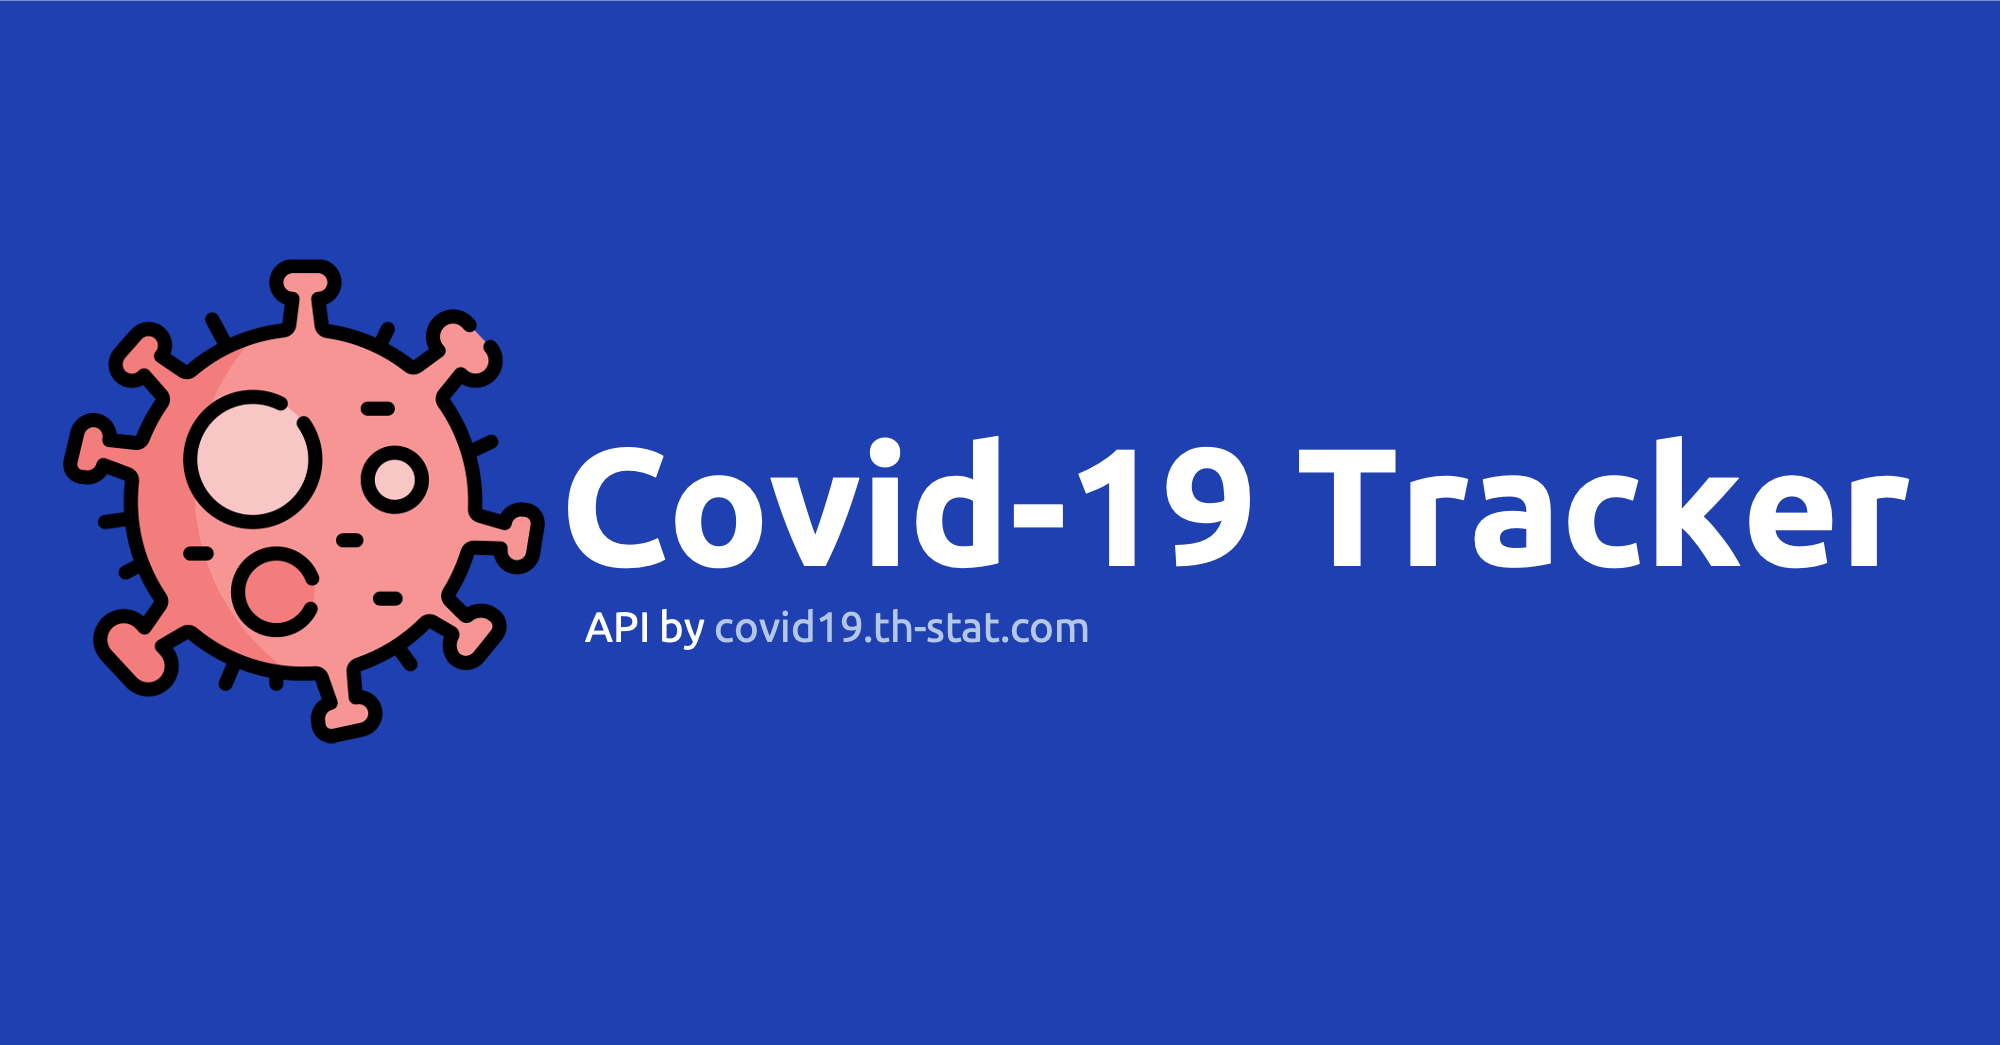
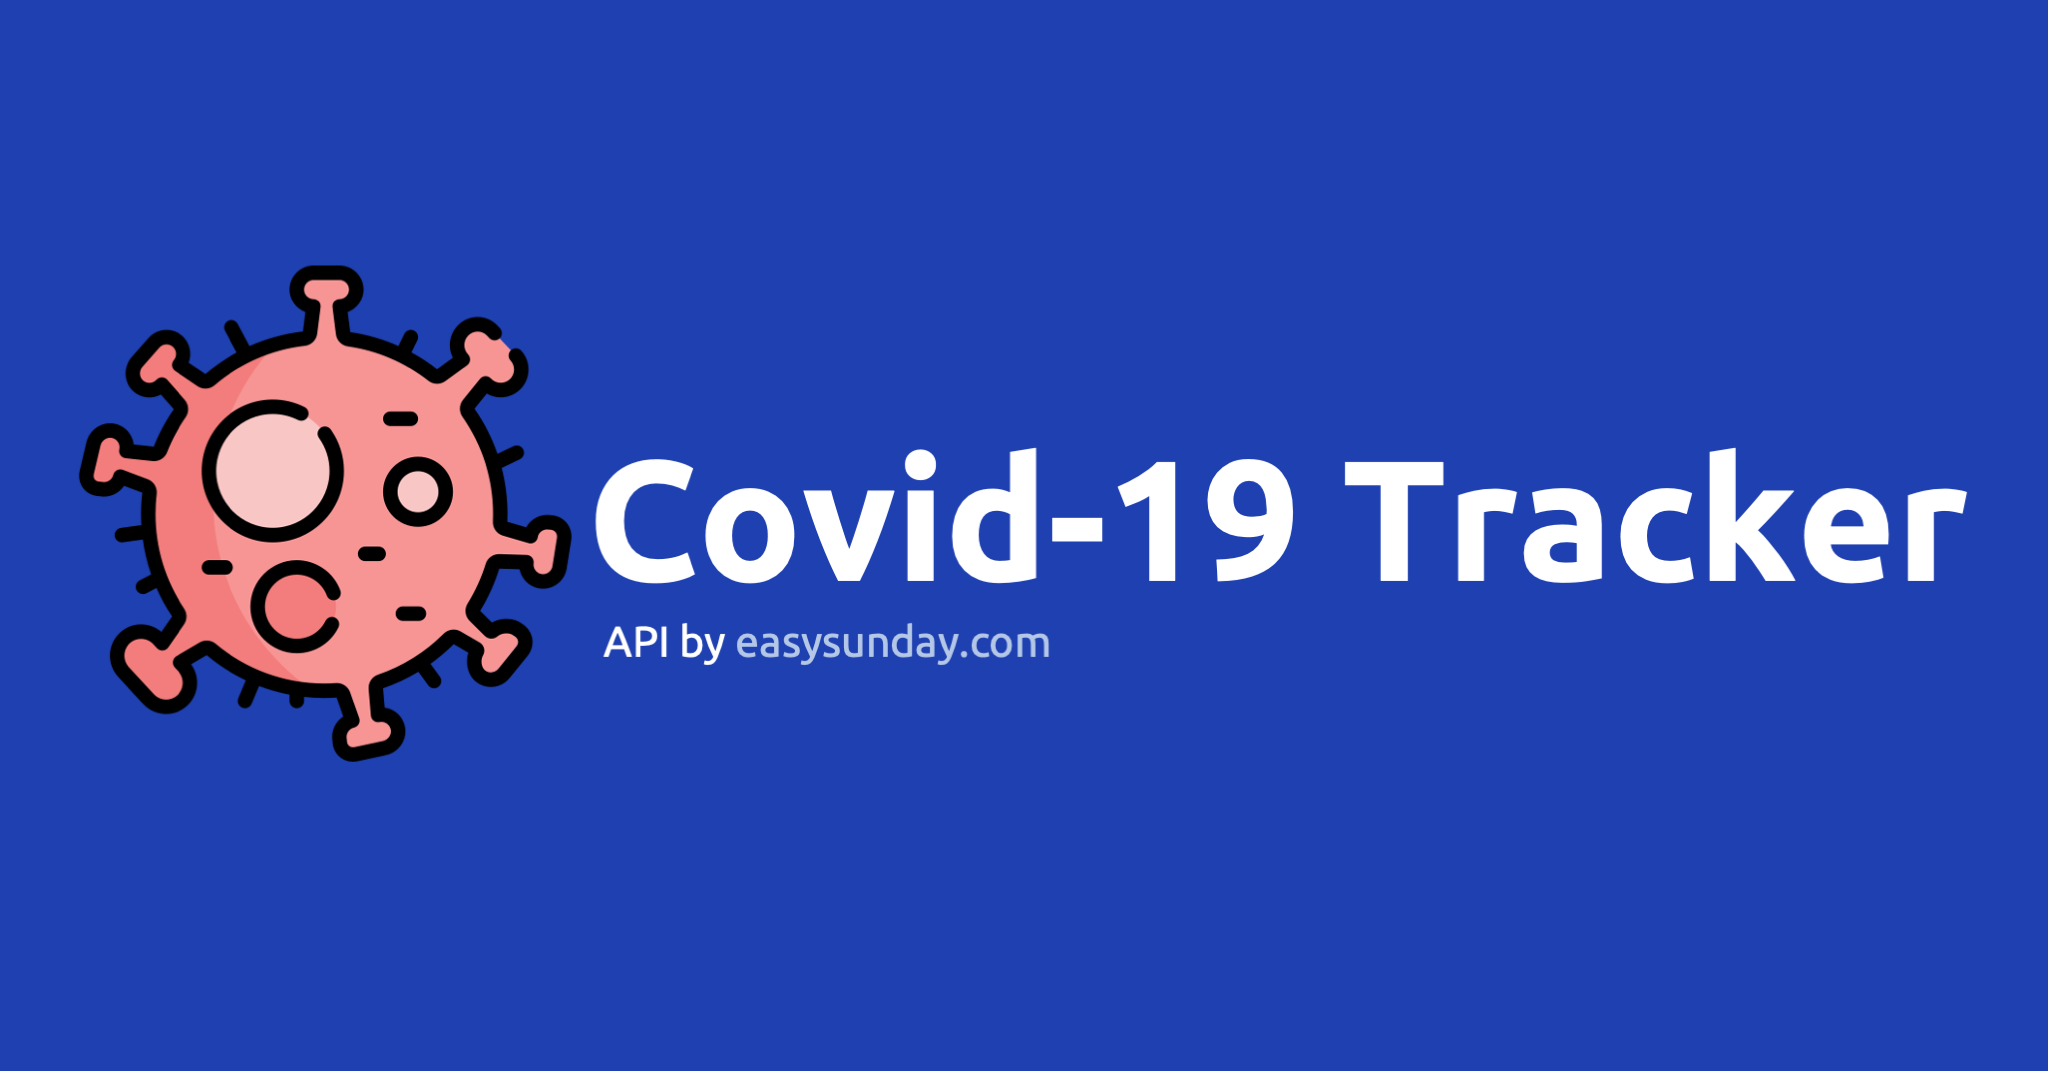
Edit api fetch data

Changed region(s): [[0.031, 0.245, 0.961, 0.7349]]

diff --git a/pages/index.vue b/pages/index.vue
@@ -7,7 +7,7 @@
       </div>
       <div class="mx-auto text-sm leading-tight">
         <span class="text-white">API by</span>
-        <a href="https://covid19.th-stat.com/" class="text-blue-300 hover:underline" target="_blank">covid19.th-stat.com</a>
+        <a href="https://easysunday.com/" class="text-blue-300 hover:underline" target="_blank">easysunday.com</a>
       </div>
     </header>
 
@@ -110,7 +110,7 @@ export default {
 
   methods: {
     async fetchData() {
-      const cases = await this.$axios.$get('https://covid19.th-stat.com/json/covid19v2/getTodayCases.json')
+      const cases = await this.$axios.$get('https://static.easysunday.com/covid-19/getTodayCases.json')
       this.cases = cases
     },
 
